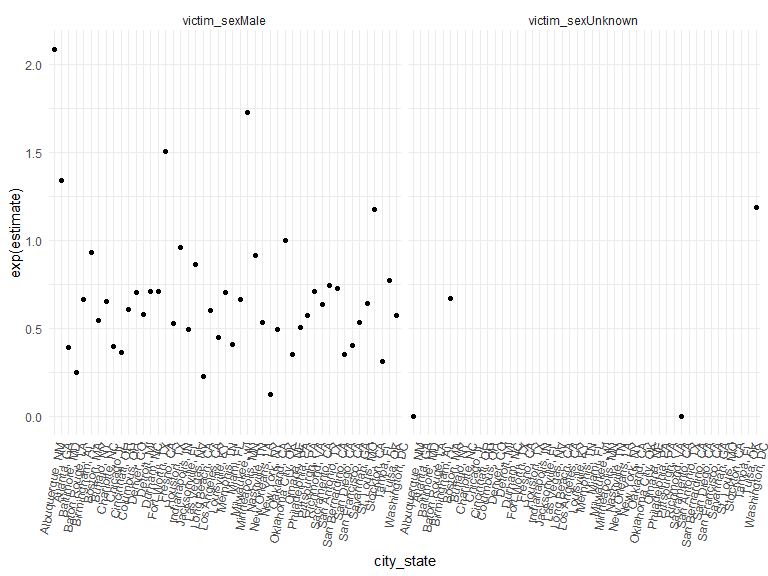
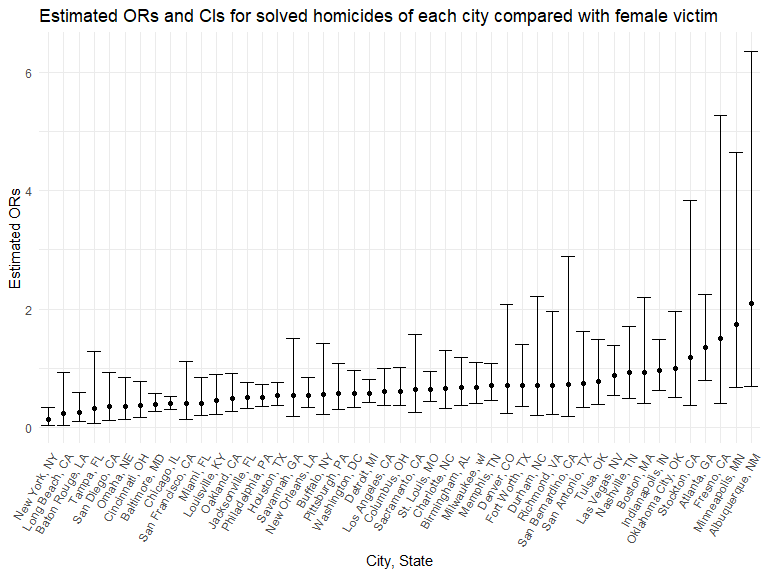
Problem 2 OR by sex description modified

diff --git a/p8105_hw6_zs2539.md b/p8105_hw6_zs2539.md
@@ -44,15 +44,17 @@ baltimore_logistic %>%
          CI_Lower = exp(conf.low),
          CI_Upper = exp(conf.high)) %>%
   select(term, log_OR = estimate, OR,CI_Lower,CI_Upper, p.value) %>% 
-  knitr::kable(digits = 3)
+  knitr::kable(align = "lrr",
+               col.names = c("Term","Estimate","OR", "95% CI Lower", "95% CI Upper", "P-value"),
+               digits = 3)
 ```
 
-| term             | log_OR |    OR | CI_Lower | CI_Upper | p.value |
-|:-----------------|-------:|------:|---------:|---------:|--------:|
-| (Intercept)      |  1.421 | 4.140 |    2.124 |    8.262 |   0.000 |
-| victim_age       | -0.011 | 0.989 |    0.980 |    0.999 |   0.027 |
-| victim_raceBlack | -0.923 | 0.397 |    0.239 |    0.655 |   0.000 |
-| victim_sexMale   | -0.940 | 0.391 |    0.265 |    0.572 |   0.000 |
+| Term             | Estimate |    OR | 95% CI Lower | 95% CI Upper | P-value |
+|:-----------------|---------:|------:|:-------------|-------------:|--------:|
+| (Intercept)      |    1.421 | 4.140 | 2.124        |        8.262 |   0.000 |
+| victim_age       |   -0.011 | 0.989 | 0.980        |        0.999 |   0.027 |
+| victim_raceBlack |   -0.923 | 0.397 | 0.239        |        0.655 |   0.000 |
+| victim_sexMale   |   -0.940 | 0.391 | 0.265        |        0.572 |   0.000 |
 
 - Keeping all other variables fixed, in Baltimore, MD, homicides in
   which the victim is male are significantly less like to be resolved
@@ -71,225 +73,94 @@ allcities_logistic = homicide_df %>%
 ```
 
 ``` r
-allcities_logistic %>%
-  mutate(term = fct_inorder(term),
+allcities_or = allcities_logistic %>%
+    mutate(term = fct_inorder(term),
          OR = exp(estimate),
-         CI_Lower = exp(conf.low),
-         CI_Upper = exp(conf.high)
+         ci_lower = exp(conf.low),
+         ci_upper = exp(conf.high)
          ) %>%
-    select(city_state, term, log_OR = estimate, OR, CI_Lower, CI_Upper,p.value) %>% 
-  knitr::kable(digits = 3)
+    select(city_state, term, log_OR = estimate, OR, ci_lower, ci_upper,p.value) %>%
+    filter(term == "victim_sexMale")
+    
+    allcities_or %>% knitr::kable(align = "lrr",
+               col.names = c("City, State","Term","Estimate","OR", "95% CI Lower", "95% CI Upper", "P-value"),
+               digits = 3)
 ```
 
-| city_state         | term              |  log_OR |     OR | CI_Lower |      CI_Upper | p.value |
-|:-------------------|:------------------|--------:|-------:|---------:|--------------:|--------:|
-| Albuquerque, NM    | (Intercept)       |   1.162 |  3.196 |    0.922 |  1.265200e+01 |   0.078 |
-| Albuquerque, NM    | victim_age        |  -0.025 |  0.975 |    0.947 |  1.002000e+00 |   0.074 |
-| Albuquerque, NM    | victim_raceBlack  |  -0.938 |  0.391 |    0.119 |  1.261000e+00 |   0.115 |
-| Albuquerque, NM    | victim_sexMale    |   0.736 |  2.088 |    0.693 |  6.359000e+00 |   0.188 |
-| Albuquerque, NM    | victim_sexUnknown | -15.002 |  0.000 |       NA | 1.078456e+122 |   0.992 |
-| Atlanta, GA        | (Intercept)       |   0.607 |  1.835 |    0.654 |  5.249000e+00 |   0.251 |
-| Atlanta, GA        | victim_age        |  -0.016 |  0.984 |    0.971 |  9.970000e-01 |   0.019 |
-| Atlanta, GA        | victim_raceBlack  |   0.246 |  1.279 |    0.572 |  2.812000e+00 |   0.541 |
-| Atlanta, GA        | victim_sexMale    |   0.296 |  1.344 |    0.797 |  2.248000e+00 |   0.262 |
-| Baltimore, MD      | (Intercept)       |   1.421 |  4.140 |    2.124 |  8.262000e+00 |   0.000 |
-| Baltimore, MD      | victim_age        |  -0.011 |  0.989 |    0.980 |  9.990000e-01 |   0.027 |
-| Baltimore, MD      | victim_raceBlack  |  -0.923 |  0.397 |    0.239 |  6.550000e-01 |   0.000 |
-| Baltimore, MD      | victim_sexMale    |  -0.940 |  0.391 |    0.265 |  5.720000e-01 |   0.000 |
-| Baton Rouge, LA    | (Intercept)       |   1.728 |  5.629 |    1.306 |  2.735200e+01 |   0.025 |
-| Baton Rouge, LA    | victim_age        |  -0.008 |  0.992 |    0.970 |  1.015000e+00 |   0.499 |
-| Baton Rouge, LA    | victim_raceBlack  |  -0.217 |  0.805 |    0.249 |  2.463000e+00 |   0.705 |
-| Baton Rouge, LA    | victim_sexMale    |  -1.373 |  0.253 |    0.096 |  5.930000e-01 |   0.003 |
-| Birmingham, AL     | (Intercept)       |   0.873 |  2.395 |    0.821 |  7.198000e+00 |   0.113 |
-| Birmingham, AL     | victim_age        |  -0.003 |  0.997 |    0.982 |  1.011000e+00 |   0.649 |
-| Birmingham, AL     | victim_raceBlack  |  -0.253 |  0.776 |    0.360 |  1.632000e+00 |   0.509 |
-| Birmingham, AL     | victim_sexMale    |  -0.406 |  0.666 |    0.367 |  1.184000e+00 |   0.172 |
-| Boston, MA         | (Intercept)       |   1.877 |  6.532 |    1.541 |  3.485800e+01 |   0.017 |
-| Boston, MA         | victim_age        |   0.003 |  1.003 |    0.977 |  1.030000e+00 |   0.830 |
-| Boston, MA         | victim_raceBlack  |  -2.183 |  0.113 |    0.031 |  3.210000e-01 |   0.000 |
-| Boston, MA         | victim_sexMale    |  -0.068 |  0.934 |    0.401 |  2.199000e+00 |   0.874 |
-| Boston, MA         | victim_sexUnknown |  -0.395 |  0.674 |    0.040 |  1.919800e+01 |   0.788 |
-| Buffalo, NY        | (Intercept)       |   0.362 |  1.437 |    0.367 |  5.833000e+00 |   0.605 |
-| Buffalo, NY        | victim_age        |   0.019 |  1.019 |    0.999 |  1.041000e+00 |   0.070 |
-| Buffalo, NY        | victim_raceBlack  |  -0.968 |  0.380 |    0.163 |  8.520000e-01 |   0.020 |
-| Buffalo, NY        | victim_sexMale    |  -0.601 |  0.548 |    0.208 |  1.414000e+00 |   0.212 |
-| Charlotte, NC      | (Intercept)       |   0.953 |  2.594 |    0.868 |  8.296000e+00 |   0.096 |
-| Charlotte, NC      | victim_age        |   0.011 |  1.011 |    0.994 |  1.029000e+00 |   0.223 |
-| Charlotte, NC      | victim_raceBlack  |  -0.073 |  0.929 |    0.416 |  1.961000e+00 |   0.851 |
-| Charlotte, NC      | victim_sexMale    |  -0.425 |  0.654 |    0.311 |  1.294000e+00 |   0.239 |
-| Chicago, IL        | (Intercept)       |   0.172 |  1.188 |    0.720 |  1.957000e+00 |   0.500 |
-| Chicago, IL        | victim_age        |   0.003 |  1.003 |    0.996 |  1.011000e+00 |   0.421 |
-| Chicago, IL        | victim_raceBlack  |  -0.558 |  0.573 |    0.396 |  8.330000e-01 |   0.003 |
-| Chicago, IL        | victim_sexMale    |  -0.923 |  0.397 |    0.301 |  5.250000e-01 |   0.000 |
-| Cincinnati, OH     | (Intercept)       |   2.357 | 10.559 |    3.306 |  3.756700e+01 |   0.000 |
-| Cincinnati, OH     | victim_age        |  -0.011 |  0.989 |    0.971 |  1.006000e+00 |   0.213 |
-| Cincinnati, OH     | victim_raceBlack  |  -0.966 |  0.381 |    0.168 |  8.010000e-01 |   0.015 |
-| Cincinnati, OH     | victim_sexMale    |  -1.009 |  0.364 |    0.157 |  7.740000e-01 |   0.012 |
-| Columbus, OH       | (Intercept)       |   0.272 |  1.313 |    0.643 |  2.705000e+00 |   0.456 |
-| Columbus, OH       | victim_age        |   0.010 |  1.010 |    0.997 |  1.024000e+00 |   0.134 |
-| Columbus, OH       | victim_raceBlack  |  -0.164 |  0.849 |    0.552 |  1.305000e+00 |   0.456 |
-| Columbus, OH       | victim_sexMale    |  -0.497 |  0.609 |    0.363 |  1.005000e+00 |   0.055 |
-| Denver, CO         | (Intercept)       |   1.062 |  2.893 |    0.738 |  1.244000e+01 |   0.136 |
-| Denver, CO         | victim_age        |  -0.017 |  0.983 |    0.959 |  1.007000e+00 |   0.174 |
-| Denver, CO         | victim_raceBlack  |  -0.258 |  0.772 |    0.329 |  1.795000e+00 |   0.549 |
-| Denver, CO         | victim_sexMale    |  -0.351 |  0.704 |    0.231 |  2.073000e+00 |   0.526 |
-| Detroit, MI        | (Intercept)       |   0.250 |  1.284 |    0.750 |  2.207000e+00 |   0.364 |
-| Detroit, MI        | victim_age        |   0.005 |  1.005 |    0.997 |  1.014000e+00 |   0.223 |
-| Detroit, MI        | victim_raceBlack  |  -0.357 |  0.700 |    0.472 |  1.036000e+00 |   0.074 |
-| Detroit, MI        | victim_sexMale    |  -0.547 |  0.579 |    0.415 |  8.050000e-01 |   0.001 |
-| Durham, NC         | (Intercept)       |   0.978 |  2.660 |    0.527 |  1.634600e+01 |   0.254 |
-| Durham, NC         | victim_age        |   0.001 |  1.001 |    0.974 |  1.029000e+00 |   0.968 |
-| Durham, NC         | victim_raceBlack  |  -0.056 |  0.946 |    0.219 |  3.630000e+00 |   0.937 |
-| Durham, NC         | victim_sexMale    |  -0.342 |  0.710 |    0.199 |  2.207000e+00 |   0.570 |
-| Fort Worth, TX     | (Intercept)       |   1.541 |  4.671 |    1.666 |  1.391600e+01 |   0.004 |
-| Fort Worth, TX     | victim_age        |  -0.027 |  0.974 |    0.956 |  9.910000e-01 |   0.003 |
-| Fort Worth, TX     | victim_raceBlack  |  -0.312 |  0.732 |    0.392 |  1.348000e+00 |   0.321 |
-| Fort Worth, TX     | victim_sexMale    |  -0.344 |  0.709 |    0.353 |  1.395000e+00 |   0.324 |
-| Fresno, CA         | (Intercept)       |   0.969 |  2.637 |    0.445 |  1.818500e+01 |   0.299 |
-| Fresno, CA         | victim_age        |   0.018 |  1.018 |    0.989 |  1.052000e+00 |   0.236 |
-| Fresno, CA         | victim_raceBlack  |  -1.387 |  0.250 |    0.065 |  7.720000e-01 |   0.025 |
-| Fresno, CA         | victim_sexMale    |   0.411 |  1.509 |    0.407 |  5.281000e+00 |   0.520 |
-| Houston, TX        | (Intercept)       |   0.864 |  2.373 |    1.393 |  4.082000e+00 |   0.002 |
-| Houston, TX        | victim_age        |  -0.005 |  0.995 |    0.987 |  1.004000e+00 |   0.260 |
-| Houston, TX        | victim_raceBlack  |  -0.134 |  0.875 |    0.625 |  1.222000e+00 |   0.434 |
-| Houston, TX        | victim_sexMale    |  -0.637 |  0.529 |    0.370 |  7.500000e-01 |   0.000 |
-| Indianapolis, IN   | (Intercept)       |   0.983 |  2.674 |    1.410 |  5.165000e+00 |   0.003 |
-| Indianapolis, IN   | victim_age        |  -0.008 |  0.992 |    0.981 |  1.004000e+00 |   0.177 |
-| Indianapolis, IN   | victim_raceBlack  |  -0.660 |  0.517 |    0.346 |  7.660000e-01 |   0.001 |
-| Indianapolis, IN   | victim_sexMale    |  -0.041 |  0.960 |    0.621 |  1.476000e+00 |   0.852 |
-| Jacksonville, FL   | (Intercept)       |   1.323 |  3.756 |    2.016 |  7.180000e+00 |   0.000 |
-| Jacksonville, FL   | victim_age        |  -0.012 |  0.988 |    0.977 |  1.000000e+00 |   0.047 |
-| Jacksonville, FL   | victim_raceBlack  |  -0.623 |  0.536 |    0.363 |  7.890000e-01 |   0.002 |
-| Jacksonville, FL   | victim_sexMale    |  -0.700 |  0.497 |    0.321 |  7.610000e-01 |   0.001 |
-| Las Vegas, NV      | (Intercept)       |   0.949 |  2.583 |    1.363 |  4.997000e+00 |   0.004 |
-| Las Vegas, NV      | victim_age        |  -0.005 |  0.995 |    0.984 |  1.006000e+00 |   0.339 |
-| Las Vegas, NV      | victim_raceBlack  |  -0.273 |  0.761 |    0.500 |  1.153000e+00 |   0.199 |
-| Las Vegas, NV      | victim_sexMale    |  -0.142 |  0.868 |    0.540 |  1.379000e+00 |   0.552 |
-| Long Beach, CA     | (Intercept)       |   3.228 | 25.240 |    2.941 |  3.884690e+02 |   0.009 |
-| Long Beach, CA     | victim_age        |  -0.015 |  0.985 |    0.953 |  1.018000e+00 |   0.368 |
-| Long Beach, CA     | victim_raceBlack  |  -0.961 |  0.383 |    0.084 |  1.427000e+00 |   0.176 |
-| Long Beach, CA     | victim_sexMale    |  -1.468 |  0.230 |    0.034 |  9.280000e-01 |   0.067 |
-| Los Angeles, CA    | (Intercept)       |   0.819 |  2.269 |    1.067 |  4.918000e+00 |   0.035 |
-| Los Angeles, CA    | victim_age        |  -0.003 |  0.997 |    0.985 |  1.009000e+00 |   0.589 |
-| Los Angeles, CA    | victim_raceBlack  |  -0.427 |  0.652 |    0.403 |  1.049000e+00 |   0.079 |
-| Los Angeles, CA    | victim_sexMale    |  -0.504 |  0.604 |    0.363 |  9.960000e-01 |   0.050 |
-| Louisville, KY     | (Intercept)       |   1.846 |  6.335 |    2.442 |  1.767400e+01 |   0.000 |
-| Louisville, KY     | victim_age        |  -0.012 |  0.988 |    0.970 |  1.005000e+00 |   0.162 |
-| Louisville, KY     | victim_raceBlack  |  -0.734 |  0.480 |    0.262 |  8.610000e-01 |   0.015 |
-| Louisville, KY     | victim_sexMale    |  -0.792 |  0.453 |    0.221 |  8.870000e-01 |   0.024 |
-| Memphis, TN        | (Intercept)       |   1.746 |  5.733 |    2.605 |  1.305300e+01 |   0.000 |
-| Memphis, TN        | victim_age        |  -0.015 |  0.985 |    0.974 |  9.960000e-01 |   0.007 |
-| Memphis, TN        | victim_raceBlack  |  -0.139 |  0.870 |    0.487 |  1.512000e+00 |   0.630 |
-| Memphis, TN        | victim_sexMale    |  -0.351 |  0.704 |    0.448 |  1.081000e+00 |   0.117 |
-| Miami, FL          | (Intercept)       |   0.859 |  2.360 |    0.834 |  6.944000e+00 |   0.110 |
-| Miami, FL          | victim_age        |  -0.007 |  0.993 |    0.974 |  1.012000e+00 |   0.492 |
-| Miami, FL          | victim_raceBlack  |  -0.594 |  0.552 |    0.297 |  1.022000e+00 |   0.058 |
-| Miami, FL          | victim_sexMale    |  -0.891 |  0.410 |    0.199 |  8.340000e-01 |   0.014 |
-| Milwaukee, wI      | (Intercept)       |   1.888 |  6.609 |    2.733 |  1.703400e+01 |   0.000 |
-| Milwaukee, wI      | victim_age        |  -0.013 |  0.987 |    0.974 |  9.990000e-01 |   0.042 |
-| Milwaukee, wI      | victim_raceBlack  |  -0.695 |  0.499 |    0.243 |  9.660000e-01 |   0.047 |
-| Milwaukee, wI      | victim_sexMale    |  -0.404 |  0.668 |    0.398 |  1.096000e+00 |   0.117 |
-| Minneapolis, MN    | (Intercept)       |   0.437 |  1.548 |    0.351 |  7.195000e+00 |   0.566 |
-| Minneapolis, MN    | victim_age        |  -0.005 |  0.995 |    0.973 |  1.018000e+00 |   0.664 |
-| Minneapolis, MN    | victim_raceBlack  |  -0.869 |  0.419 |    0.148 |  1.094000e+00 |   0.085 |
-| Minneapolis, MN    | victim_sexMale    |   0.549 |  1.731 |    0.677 |  4.647000e+00 |   0.259 |
-| Nashville, TN      | (Intercept)       |   0.858 |  2.359 |    1.079 |  5.346000e+00 |   0.035 |
-| Nashville, TN      | victim_age        |  -0.007 |  0.993 |    0.978 |  1.007000e+00 |   0.319 |
-| Nashville, TN      | victim_raceBlack  |   0.020 |  1.020 |    0.640 |  1.614000e+00 |   0.934 |
-| Nashville, TN      | victim_sexMale    |  -0.086 |  0.918 |    0.479 |  1.706000e+00 |   0.790 |
-| New Orleans, LA    | (Intercept)       |   1.135 |  3.113 |    1.314 |  7.511000e+00 |   0.010 |
-| New Orleans, LA    | victim_age        |  -0.019 |  0.981 |    0.967 |  9.950000e-01 |   0.007 |
-| New Orleans, LA    | victim_raceBlack  |  -0.631 |  0.532 |    0.289 |  9.820000e-01 |   0.042 |
-| New Orleans, LA    | victim_sexMale    |  -0.622 |  0.537 |    0.340 |  8.480000e-01 |   0.007 |
-| New York, NY       | (Intercept)       |   2.927 | 18.678 |    4.004 |  1.100630e+02 |   0.000 |
-| New York, NY       | victim_age        |   0.007 |  1.007 |    0.985 |  1.029000e+00 |   0.535 |
-| New York, NY       | victim_raceBlack  |  -1.259 |  0.284 |    0.095 |  7.430000e-01 |   0.015 |
-| New York, NY       | victim_sexMale    |  -2.069 |  0.126 |    0.036 |  3.400000e-01 |   0.000 |
-| Oakland, CA        | (Intercept)       |   2.029 |  7.609 |    2.196 |  3.041700e+01 |   0.002 |
-| Oakland, CA        | victim_age        |   0.001 |  1.001 |    0.984 |  1.018000e+00 |   0.887 |
-| Oakland, CA        | victim_raceBlack  |  -1.882 |  0.152 |    0.049 |  3.900000e-01 |   0.000 |
-| Oakland, CA        | victim_sexMale    |  -0.705 |  0.494 |    0.264 |  9.150000e-01 |   0.026 |
-| Oklahoma City, OK  | (Intercept)       |   0.788 |  2.199 |    0.959 |  5.193000e+00 |   0.066 |
-| Oklahoma City, OK  | victim_age        |  -0.008 |  0.992 |    0.976 |  1.009000e+00 |   0.372 |
-| Oklahoma City, OK  | victim_raceBlack  |  -0.642 |  0.526 |    0.293 |  9.300000e-01 |   0.029 |
-| Oklahoma City, OK  | victim_sexMale    |  -0.001 |  0.999 |    0.506 |  1.966000e+00 |   0.998 |
-| Omaha, NE          | (Intercept)       |   2.322 | 10.201 |    2.581 |  4.563300e+01 |   0.001 |
-| Omaha, NE          | victim_age        |   0.006 |  1.006 |    0.981 |  1.031000e+00 |   0.643 |
-| Omaha, NE          | victim_raceBlack  |  -2.082 |  0.125 |    0.050 |  2.800000e-01 |   0.000 |
-| Omaha, NE          | victim_sexMale    |  -1.041 |  0.353 |    0.139 |  8.460000e-01 |   0.023 |
-| Philadelphia, PA   | (Intercept)       |   1.053 |  2.867 |    1.610 |  5.182000e+00 |   0.000 |
-| Philadelphia, PA   | victim_age        |   0.002 |  1.002 |    0.993 |  1.010000e+00 |   0.678 |
-| Philadelphia, PA   | victim_raceBlack  |  -0.341 |  0.711 |    0.476 |  1.053000e+00 |   0.092 |
-| Philadelphia, PA   | victim_sexMale    |  -0.679 |  0.507 |    0.352 |  7.220000e-01 |   0.000 |
-| Pittsburgh, PA     | (Intercept)       |   1.284 |  3.611 |    1.303 |  1.076400e+01 |   0.016 |
-| Pittsburgh, PA     | victim_age        |   0.003 |  1.003 |    0.986 |  1.020000e+00 |   0.707 |
-| Pittsburgh, PA     | victim_raceBlack  |  -1.201 |  0.301 |    0.132 |  6.380000e-01 |   0.003 |
-| Pittsburgh, PA     | victim_sexMale    |  -0.555 |  0.574 |    0.302 |  1.077000e+00 |   0.086 |
-| Richmond, VA       | (Intercept)       |   1.820 |  6.175 |    0.892 |  5.245500e+01 |   0.076 |
-| Richmond, VA       | victim_age        |  -0.015 |  0.985 |    0.956 |  1.016000e+00 |   0.337 |
-| Richmond, VA       | victim_raceBlack  |  -0.036 |  0.964 |    0.242 |  3.222000e+00 |   0.955 |
-| Richmond, VA       | victim_sexMale    |  -0.340 |  0.712 |    0.219 |  1.963000e+00 |   0.535 |
-| San Antonio, TX    | (Intercept)       |   1.370 |  3.936 |    1.228 |  1.358500e+01 |   0.024 |
-| San Antonio, TX    | victim_age        |  -0.021 |  0.980 |    0.960 |  9.990000e-01 |   0.043 |
-| San Antonio, TX    | victim_raceBlack  |  -0.148 |  0.863 |    0.431 |  1.702000e+00 |   0.673 |
-| San Antonio, TX    | victim_sexMale    |  -0.296 |  0.744 |    0.331 |  1.617000e+00 |   0.462 |
-| Sacramento, CA     | (Intercept)       |   0.622 |  1.863 |    0.462 |  7.877000e+00 |   0.385 |
-| Sacramento, CA     | victim_age        |   0.012 |  1.012 |    0.986 |  1.040000e+00 |   0.376 |
-| Sacramento, CA     | victim_raceBlack  |  -0.364 |  0.695 |    0.276 |  1.694000e+00 |   0.428 |
-| Sacramento, CA     | victim_sexMale    |  -0.449 |  0.638 |    0.246 |  1.572000e+00 |   0.338 |
-| Sacramento, CA     | victim_sexUnknown | -16.096 |  0.000 |       NA | 5.462216e+121 |   0.991 |
-| Savannah, GA       | (Intercept)       |   0.194 |  1.214 |    0.233 |  6.546000e+00 |   0.818 |
-| Savannah, GA       | victim_age        |   0.017 |  1.017 |    0.989 |  1.048000e+00 |   0.242 |
-| Savannah, GA       | victim_raceBlack  |  -0.266 |  0.766 |    0.257 |  2.241000e+00 |   0.625 |
-| Savannah, GA       | victim_sexMale    |  -0.624 |  0.536 |    0.180 |  1.499000e+00 |   0.243 |
-| San Bernardino, CA | (Intercept)       |  -1.631 |  0.196 |    0.016 |  1.974000e+00 |   0.175 |
-| San Bernardino, CA | victim_age        |   0.039 |  1.040 |    1.003 |  1.083000e+00 |   0.042 |
-| San Bernardino, CA | victim_raceBlack  |   0.370 |  1.447 |    0.419 |  5.393000e+00 |   0.565 |
-| San Bernardino, CA | victim_sexMale    |  -0.318 |  0.728 |    0.179 |  2.889000e+00 |   0.647 |
-| San Diego, CA      | (Intercept)       |   2.023 |  7.561 |    1.607 |  4.162800e+01 |   0.014 |
-| San Diego, CA      | victim_age        |  -0.011 |  0.989 |    0.966 |  1.013000e+00 |   0.380 |
-| San Diego, CA      | victim_raceBlack  |  -0.502 |  0.605 |    0.263 |  1.360000e+00 |   0.229 |
-| San Diego, CA      | victim_sexMale    |  -1.042 |  0.353 |    0.118 |  9.210000e-01 |   0.043 |
-| San Francisco, CA  | (Intercept)       |   1.020 |  2.772 |    0.728 |  1.190600e+01 |   0.148 |
-| San Francisco, CA  | victim_age        |   0.017 |  1.017 |    0.997 |  1.037000e+00 |   0.092 |
-| San Francisco, CA  | victim_raceBlack  |  -0.855 |  0.425 |    0.212 |  8.300000e-01 |   0.014 |
-| San Francisco, CA  | victim_sexMale    |  -0.910 |  0.403 |    0.125 |  1.111000e+00 |   0.096 |
-| St. Louis, MO      | (Intercept)       |   0.518 |  1.678 |    0.835 |  3.401000e+00 |   0.148 |
-| St. Louis, MO      | victim_age        |  -0.001 |  0.999 |    0.988 |  1.010000e+00 |   0.881 |
-| St. Louis, MO      | victim_raceBlack  |  -0.344 |  0.709 |    0.436 |  1.147000e+00 |   0.161 |
-| St. Louis, MO      | victim_sexMale    |  -0.445 |  0.641 |    0.437 |  9.360000e-01 |   0.022 |
-| Stockton, CA       | (Intercept)       |   1.423 |  4.150 |    0.860 |  2.290000e+01 |   0.085 |
-| Stockton, CA       | victim_age        |  -0.021 |  0.979 |    0.952 |  1.005000e+00 |   0.125 |
-| Stockton, CA       | victim_raceBlack  |  -1.412 |  0.244 |    0.079 |  6.730000e-01 |   0.009 |
-| Stockton, CA       | victim_sexMale    |   0.165 |  1.180 |    0.374 |  3.832000e+00 |   0.778 |
-| Tampa, FL          | (Intercept)       |   0.215 |  1.240 |    0.178 |  9.662000e+00 |   0.829 |
-| Tampa, FL          | victim_age        |   0.018 |  1.019 |    0.988 |  1.052000e+00 |   0.243 |
-| Tampa, FL          | victim_raceBlack  |   0.041 |  1.042 |    0.323 |  3.443000e+00 |   0.945 |
-| Tampa, FL          | victim_sexMale    |  -1.156 |  0.315 |    0.061 |  1.284000e+00 |   0.124 |
-| Tulsa, OK          | (Intercept)       |   1.554 |  4.732 |    2.134 |  1.116200e+01 |   0.000 |
-| Tulsa, OK          | victim_age        |  -0.008 |  0.992 |    0.976 |  1.009000e+00 |   0.359 |
-| Tulsa, OK          | victim_raceBlack  |  -0.364 |  0.695 |    0.389 |  1.226000e+00 |   0.213 |
-| Tulsa, OK          | victim_sexMale    |  -0.253 |  0.776 |    0.391 |  1.489000e+00 |   0.456 |
-| Washington, DC     | (Intercept)       |   1.193 |  3.296 |    1.109 |  1.038900e+01 |   0.035 |
-| Washington, DC     | victim_age        |  -0.003 |  0.997 |    0.986 |  1.009000e+00 |   0.643 |
-| Washington, DC     | victim_raceBlack  |  -0.503 |  0.605 |    0.236 |  1.445000e+00 |   0.270 |
-| Washington, DC     | victim_sexMale    |  -0.552 |  0.576 |    0.336 |  9.660000e-01 |   0.040 |
-| Washington, DC     | victim_sexUnknown |   0.171 |  1.187 |    0.381 |  4.144000e+00 |   0.775 |
+| City, State        |           Term | Estimate | OR    | 95% CI Lower | 95% CI Upper | P-value |
+|:-------------------|---------------:|---------:|:------|-------------:|-------------:|:--------|
+| Albuquerque, NM    | victim_sexMale |    0.736 | 2.088 |        0.693 |        6.359 | 0.188   |
+| Atlanta, GA        | victim_sexMale |    0.296 | 1.344 |        0.797 |        2.248 | 0.262   |
+| Baltimore, MD      | victim_sexMale |   -0.940 | 0.391 |        0.265 |        0.572 | 0.000   |
+| Baton Rouge, LA    | victim_sexMale |   -1.373 | 0.253 |        0.096 |        0.593 | 0.003   |
+| Birmingham, AL     | victim_sexMale |   -0.406 | 0.666 |        0.367 |        1.184 | 0.172   |
+| Boston, MA         | victim_sexMale |   -0.068 | 0.934 |        0.401 |        2.199 | 0.874   |
+| Buffalo, NY        | victim_sexMale |   -0.601 | 0.548 |        0.208 |        1.414 | 0.212   |
+| Charlotte, NC      | victim_sexMale |   -0.425 | 0.654 |        0.311 |        1.294 | 0.239   |
+| Chicago, IL        | victim_sexMale |   -0.923 | 0.397 |        0.301 |        0.525 | 0.000   |
+| Cincinnati, OH     | victim_sexMale |   -1.009 | 0.364 |        0.157 |        0.774 | 0.012   |
+| Columbus, OH       | victim_sexMale |   -0.497 | 0.609 |        0.363 |        1.005 | 0.055   |
+| Denver, CO         | victim_sexMale |   -0.351 | 0.704 |        0.231 |        2.073 | 0.526   |
+| Detroit, MI        | victim_sexMale |   -0.547 | 0.579 |        0.415 |        0.805 | 0.001   |
+| Durham, NC         | victim_sexMale |   -0.342 | 0.710 |        0.199 |        2.207 | 0.570   |
+| Fort Worth, TX     | victim_sexMale |   -0.344 | 0.709 |        0.353 |        1.395 | 0.324   |
+| Fresno, CA         | victim_sexMale |    0.411 | 1.509 |        0.407 |        5.281 | 0.520   |
+| Houston, TX        | victim_sexMale |   -0.637 | 0.529 |        0.370 |        0.750 | 0.000   |
+| Indianapolis, IN   | victim_sexMale |   -0.041 | 0.960 |        0.621 |        1.476 | 0.852   |
+| Jacksonville, FL   | victim_sexMale |   -0.700 | 0.497 |        0.321 |        0.761 | 0.001   |
+| Las Vegas, NV      | victim_sexMale |   -0.142 | 0.868 |        0.540 |        1.379 | 0.552   |
+| Long Beach, CA     | victim_sexMale |   -1.468 | 0.230 |        0.034 |        0.928 | 0.067   |
+| Los Angeles, CA    | victim_sexMale |   -0.504 | 0.604 |        0.363 |        0.996 | 0.050   |
+| Louisville, KY     | victim_sexMale |   -0.792 | 0.453 |        0.221 |        0.887 | 0.024   |
+| Memphis, TN        | victim_sexMale |   -0.351 | 0.704 |        0.448 |        1.081 | 0.117   |
+| Miami, FL          | victim_sexMale |   -0.891 | 0.410 |        0.199 |        0.834 | 0.014   |
+| Milwaukee, wI      | victim_sexMale |   -0.404 | 0.668 |        0.398 |        1.096 | 0.117   |
+| Minneapolis, MN    | victim_sexMale |    0.549 | 1.731 |        0.677 |        4.647 | 0.259   |
+| Nashville, TN      | victim_sexMale |   -0.086 | 0.918 |        0.479 |        1.706 | 0.790   |
+| New Orleans, LA    | victim_sexMale |   -0.622 | 0.537 |        0.340 |        0.848 | 0.007   |
+| New York, NY       | victim_sexMale |   -2.069 | 0.126 |        0.036 |        0.340 | 0.000   |
+| Oakland, CA        | victim_sexMale |   -0.705 | 0.494 |        0.264 |        0.915 | 0.026   |
+| Oklahoma City, OK  | victim_sexMale |   -0.001 | 0.999 |        0.506 |        1.966 | 0.998   |
+| Omaha, NE          | victim_sexMale |   -1.041 | 0.353 |        0.139 |        0.846 | 0.023   |
+| Philadelphia, PA   | victim_sexMale |   -0.679 | 0.507 |        0.352 |        0.722 | 0.000   |
+| Pittsburgh, PA     | victim_sexMale |   -0.555 | 0.574 |        0.302 |        1.077 | 0.086   |
+| Richmond, VA       | victim_sexMale |   -0.340 | 0.712 |        0.219 |        1.963 | 0.535   |
+| San Antonio, TX    | victim_sexMale |   -0.296 | 0.744 |        0.331 |        1.617 | 0.462   |
+| Sacramento, CA     | victim_sexMale |   -0.449 | 0.638 |        0.246 |        1.572 | 0.338   |
+| Savannah, GA       | victim_sexMale |   -0.624 | 0.536 |        0.180 |        1.499 | 0.243   |
+| San Bernardino, CA | victim_sexMale |   -0.318 | 0.728 |        0.179 |        2.889 | 0.647   |
+| San Diego, CA      | victim_sexMale |   -1.042 | 0.353 |        0.118 |        0.921 | 0.043   |
+| San Francisco, CA  | victim_sexMale |   -0.910 | 0.403 |        0.125 |        1.111 | 0.096   |
+| St. Louis, MO      | victim_sexMale |   -0.445 | 0.641 |        0.437 |        0.936 | 0.022   |
+| Stockton, CA       | victim_sexMale |    0.165 | 1.180 |        0.374 |        3.832 | 0.778   |
+| Tampa, FL          | victim_sexMale |   -1.156 | 0.315 |        0.061 |        1.284 | 0.124   |
+| Tulsa, OK          | victim_sexMale |   -0.253 | 0.776 |        0.391 |        1.489 | 0.456   |
+| Washington, DC     | victim_sexMale |   -0.552 | 0.576 |        0.336 |        0.966 | 0.040   |
 
-- Keeping all other variables fixed, in XXX,XXX,XXX, homicides in which
-  the victim is male are significantly less like to be resolved than
-  those in which the victim is female.
+#### Creating plot that shows the estimated ORs and CIs for each city
 
 ``` r
-allcities_logistic %>% 
-  filter(str_detect(term, "victim_sex")) %>% 
-  ggplot(aes(x = city_state, y = exp(estimate))) + 
-  geom_point() + 
-  facet_wrap(~term) + 
-  theme(axis.text.x = element_text(angle = 80, hjust = 1))
+allcities_or %>% 
+  mutate(city_state = fct_reorder(city_state, OR)) %>% 
+  ggplot(aes(x = city_state, y = OR)) + 
+  geom_point() +
+  geom_errorbar(aes(ymin = ci_lower, ymax = ci_upper)) +
+  theme(axis.text.x = element_text(angle = 60, hjust = 1)) +
+   labs(
+    title = "Estimated ORs and CIs for solved homicides of each city compared with female victim",
+    x = "City, State",
+    y = "Estimated ORs"
+  )
 ```
 
 <img src="p8105_hw6_zs2539_files/figure-gfm/unnamed-chunk-7-1.png" width="90%" />
+
+- Holding all other variables constant, homicide cases with male victims
+  are generally less likely to be solved compared to homicide cases with
+  female victims because for most cities, the OR and its CI is less than
+  1 compared to female victims. However, there are some cities where the
+  CI includes 1, meaning that homicide cases with male and female
+  victims are solved at no apparent difference.
 
 ## Problem 3
 
